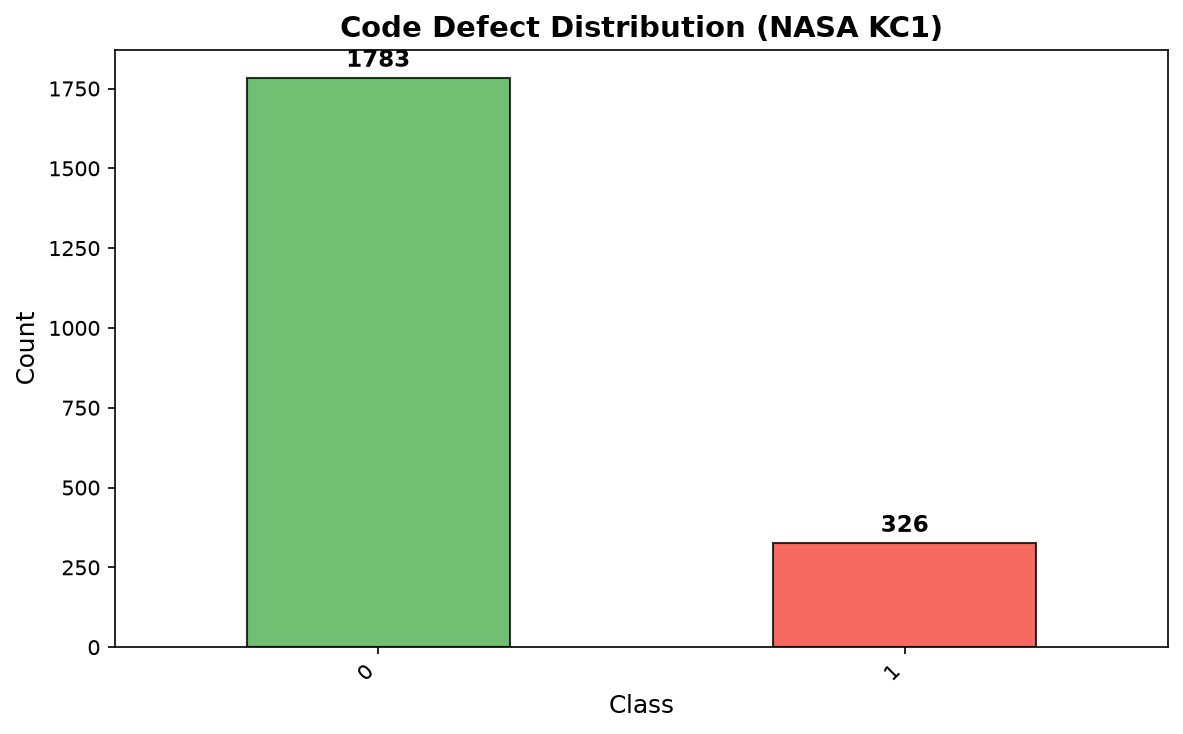
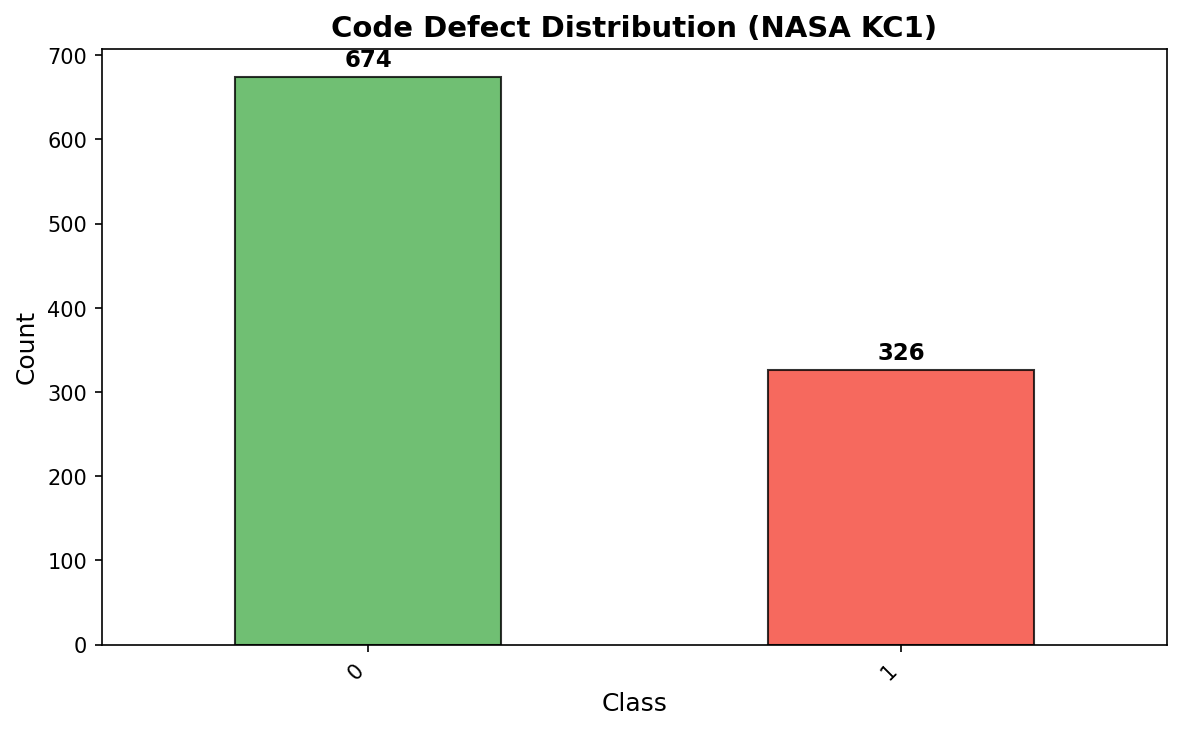
Remove emojis from README.md and add evaluation figures

diff --git a/README.md b/README.md
@@ -1,11 +1,11 @@
-# 🎓 LMS AI/ML Pipeline — Code Quality Grading & Student Doubt Triage
+# LMS AI/ML Pipeline — Code Quality Grading & Student Doubt Triage
 
 > Production-quality Machine Learning & NLP Pipeline for Learning Management Systems (LMS).  
 > Built for the **KPMG AI/ML Off-Campus Hiring Assessment**.
 
 ---
 
-## 🌐 Live Web Interfaces & API Links
+## Live Web Interfaces & API Links
 
 - **Interactive Dashboard:** `https://<your-render-url>/` *(Sleek HTML/JS Web App)*
 - **Gradio Interactive UI:** `https://<your-render-url>/gradio` *(Full 3-Tab Gradio App)*
@@ -14,7 +14,7 @@
 
 ---
 
-## 📋 Overview
+## Overview
 
 This project implements **two production-grade ML pipelines**:
 
@@ -25,7 +25,7 @@ This project implements **two production-grade ML pipelines**:
 
 ---
 
-## 🏗 Project Structure
+## Project Structure
 
 ```
 kpmg/
@@ -65,7 +65,7 @@ kpmg/
 
 ---
 
-## 🚀 Quick Start & Local Execution
+## Quick Start & Local Execution
 
 ### 1. Install Dependencies
 
@@ -95,7 +95,7 @@ uvicorn api.app:app --reload --port 8000
 
 ---
 
-## 📡 API Endpoints & Request Examples
+## API Endpoints & Request Examples
 
 ### 1. Code Quality Grading (`POST /predict-grade`)
 
@@ -159,7 +159,7 @@ uvicorn api.app:app --reload --port 8000
 
 ---
 
-## 💡 Tradeoffs & Handling Ambiguity
+## Tradeoffs & Handling Ambiguity
 
 1. **Defect Prediction as Proxy for Code Quality (Pipeline 1):**
    - **Ambiguity:** Benchmark datasets with human teacher grading rubrics are scarce in open ML literature.
@@ -173,7 +173,7 @@ uvicorn api.app:app --reload --port 8000
 
 ---
 
-## 📦 Dependencies
+## Dependencies
 
 | Package | Purpose |
 |---------|---------|
@@ -189,7 +189,7 @@ uvicorn api.app:app --reload --port 8000
 
 ---
 
-## 📄 License & Attribution
+## License & Attribution
 
 Built for the KPMG AI/ML Assessment.
 - Datasets: Project CodeNet, NASA MDP, CS1QA (NAACL 2022).
